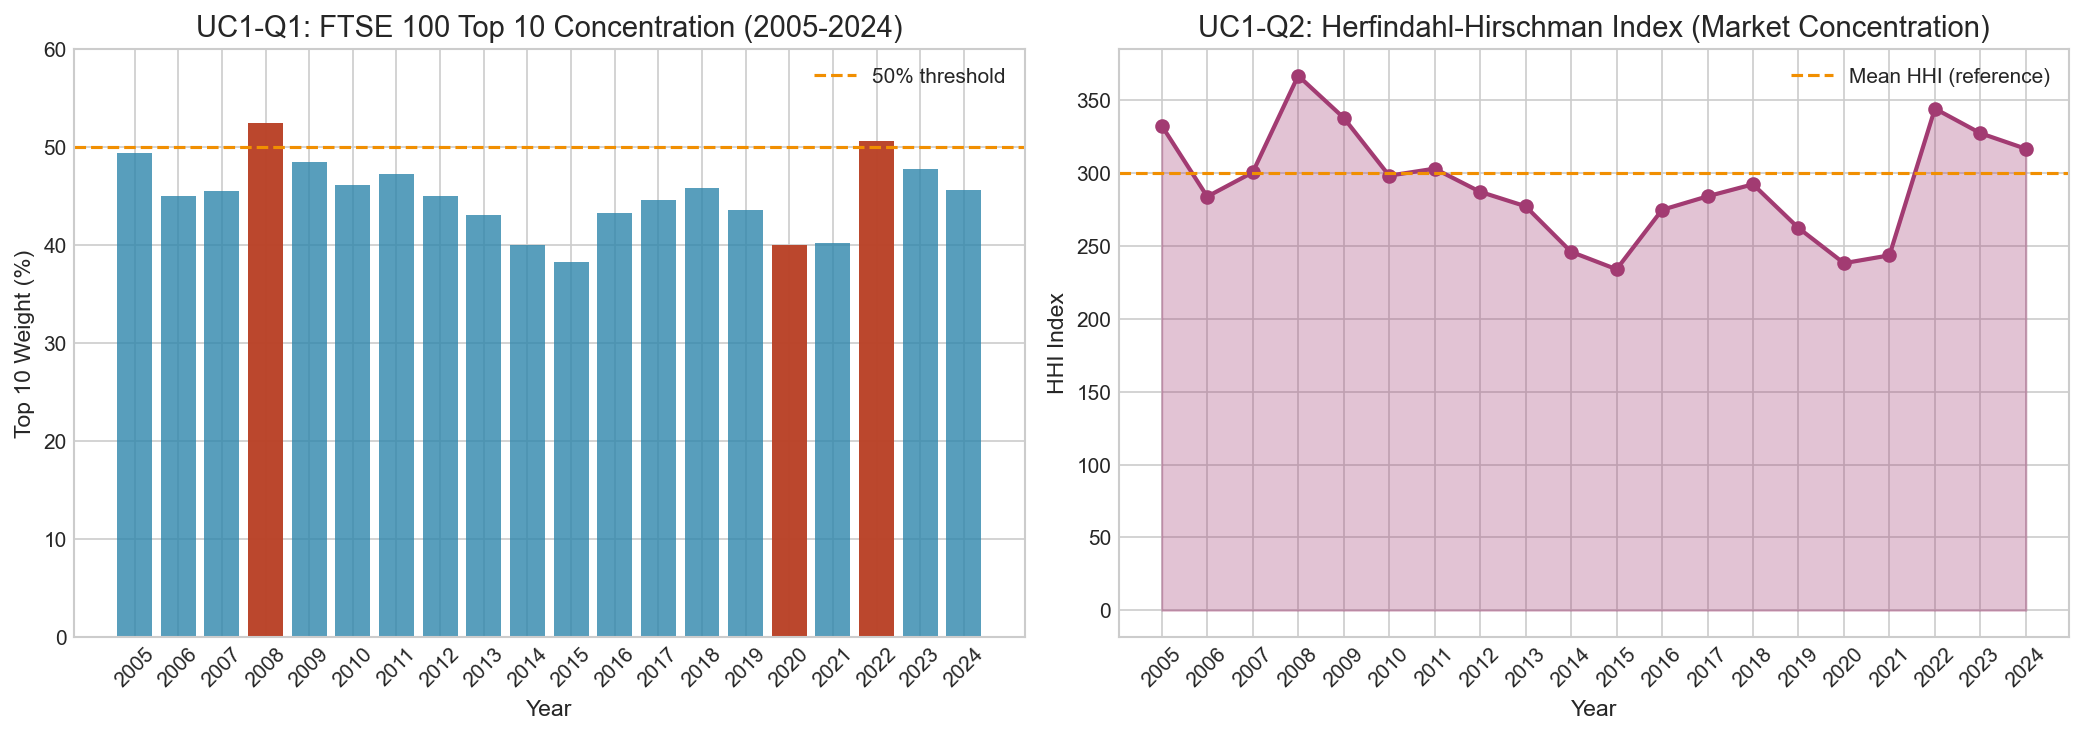
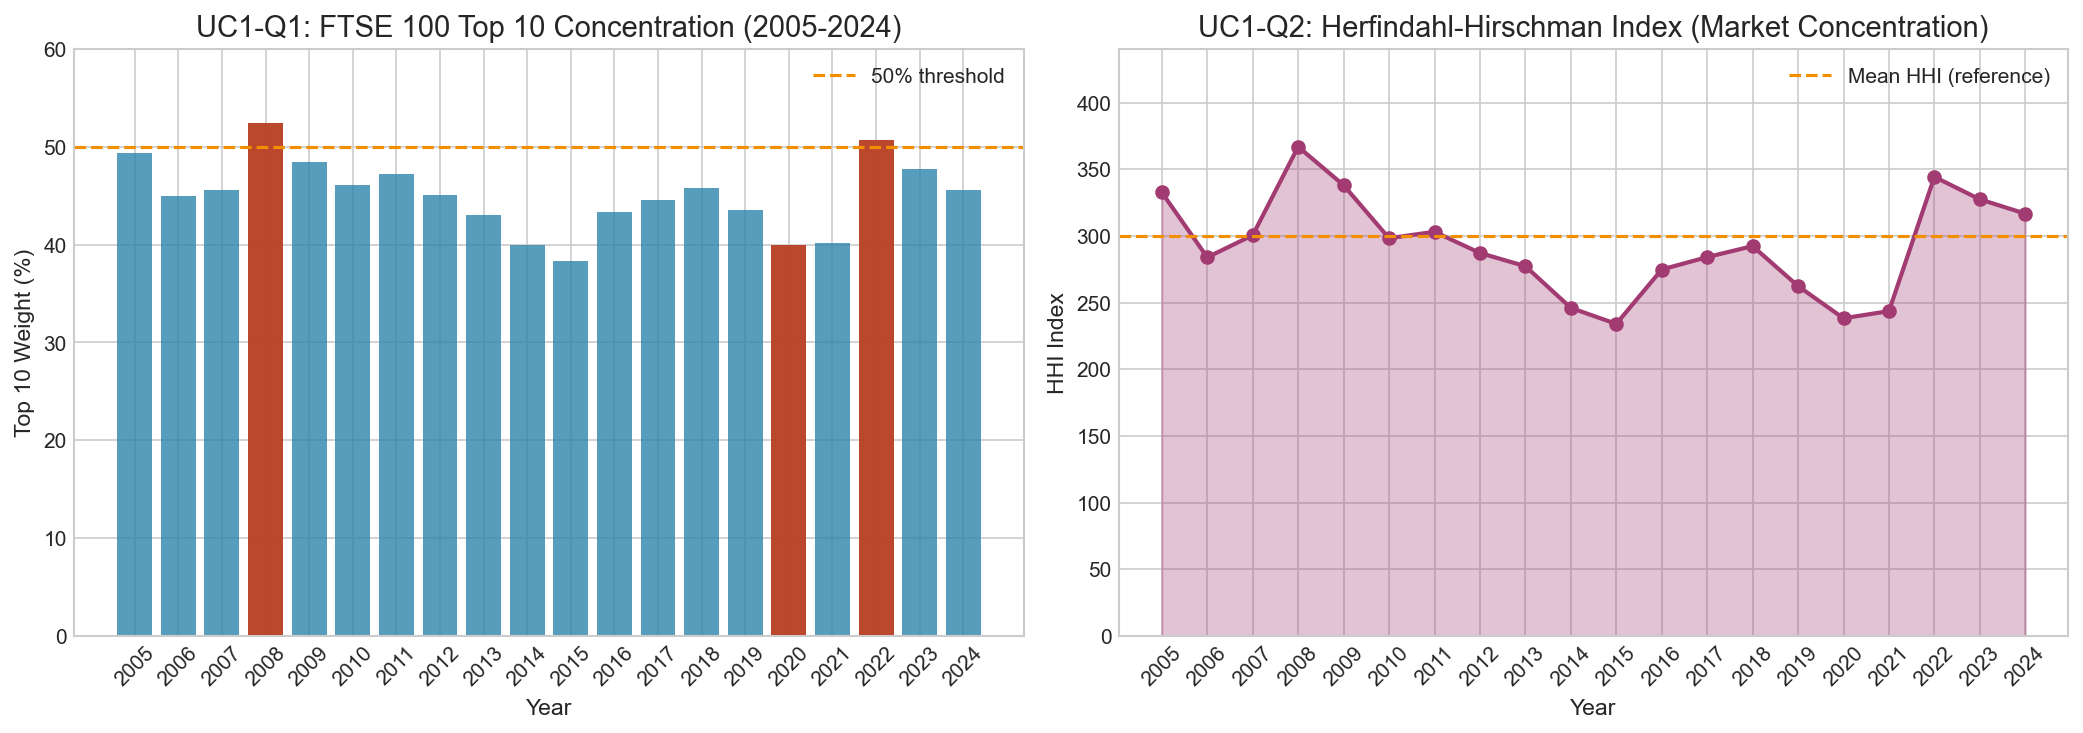
Update report: fix placeholders, update candidate numbers, improve visualizations
- Fix placeholders: correct 15-year to 20-year horizon, fix typo 'establish' to 'established'
- Add missing query titles (Query 2.3, 3.2, 3.3)
- Update candidate numbers to 66469, 66503, 73702
- Fix all chart Y-axes to start from 0 where appropriate
- Add UC5-Q3 rate sensitivity chart to report
- Remove all figure captions as requested
- Increase image sizes to 0.9\textwidth for better visibility
- Regenerate all visualization images with corrected axes

diff --git a/visualizations.py b/visualizations.py
@@ -90,6 +90,7 @@ def plot_uc1_concentration():
     ax2.set_xlabel('Year')
     ax2.set_ylabel('HHI Index')
     ax2.set_title('UC1-Q2: Herfindahl-Hirschman Index (Market Concentration)')
+    ax2.set_ylim(0, df2['hhi'].max() * 1.2)
     ax2.legend()
     ax2.tick_params(axis='x', rotation=45)
     
@@ -259,6 +260,7 @@ def plot_uc4_volatility():
     ax.set_xlabel('Average Revenue Volatility (%)')
     ax.set_ylabel('GICS Sector')
     ax.set_title('UC4-Q2: Revenue Volatility by Sector (Cyclicality Proxy)')
+    ax.set_xlim(0, max(100, df['avg_vol'].max() * 1.1))
     ax.legend(loc='lower right')
     
     # Add labels
@@ -364,16 +366,22 @@ def plot_uc5_rate_sensitivity():
     # Color: negative = rate sensitive (red), positive = rate beneficiary (green)
     colors = [COLORS['success'] if s < 0 else COLORS['highlight'] for s in df['sensitivity']]
     
-    bars = ax.barh(df['gics_sector_name'], df['sensitivity'] * 1000, color=colors, alpha=0.85)
+    sensitivity_scaled = df['sensitivity'] * 1000
+    bars = ax.barh(df['gics_sector_name'], sensitivity_scaled, color=colors, alpha=0.85)
     
     ax.axvline(x=0, color='black', linewidth=1)
     ax.set_xlabel('Rate Sensitivity (×1000)')
     ax.set_ylabel('GICS Sector')
     ax.set_title('UC5-Q3: Sector Rate Sensitivity (Correlation with 10Y Yield Changes)')
     
+    # Set xlim to include negative range, ensuring 0 is visible
+    x_min = min(sensitivity_scaled.min() * 1.2, -10)
+    x_max = max(sensitivity_scaled.max() * 1.2, 10)
+    ax.set_xlim(x_min, x_max)
+    
     # Add labels
-    ax.text(-10, -0.8, '← Rate Sensitive', fontsize=10, color=COLORS['success'], fontweight='bold')
-    ax.text(80, -0.8, 'Rate Beneficiary →', fontsize=10, color=COLORS['highlight'], fontweight='bold')
+    ax.text(x_min * 0.5, -0.8, '← Rate Sensitive', fontsize=10, color=COLORS['success'], fontweight='bold')
+    ax.text(x_max * 0.5, -0.8, 'Rate Beneficiary →', fontsize=10, color=COLORS['highlight'], fontweight='bold')
     
     plt.tight_layout()
     plt.savefig('viz_uc5_rate_sensitivity.png', dpi=150, bbox_inches='tight')
@@ -399,6 +407,7 @@ def create_summary_dashboard():
     ax.barh(list(stats.keys()), [v/1000 for v in stats.values()], color=COLORS['primary'])
     ax.set_xlabel('Records (thousands)')
     ax.set_title('Database Size')
+    ax.set_xlim(0, max(stats.values())/1000 * 1.2)
     for i, (k, v) in enumerate(stats.items()):
         ax.text(v/1000 + 5, i, f'{v:,}', va='center', fontsize=9)
     
@@ -420,6 +429,7 @@ def create_summary_dashboard():
     ax.set_xlabel('Year')
     ax.set_ylabel('Companies with Data')
     ax.set_title('Financial Data Coverage')
+    ax.set_ylim(0, df['companies'].max() * 1.1)
     ax.tick_params(axis='x', rotation=45)
     
     # 4. Top 10 Concentration Trend
@@ -437,6 +447,7 @@ def create_summary_dashboard():
     ax.plot(df['year'], df['top10'], marker='s', color=COLORS['primary'])
     ax.set_ylabel('Top 10 Weight (%)')
     ax.set_title('FTSE 100 Concentration')
+    ax.set_ylim(0, max(60, df['top10'].max() * 1.2))
     ax.tick_params(axis='x', rotation=45)
     
     # 5. Interest Rates
@@ -450,6 +461,7 @@ def create_summary_dashboard():
     ax.plot(df['year'], df['rate'], marker='o', color=COLORS['accent'], linewidth=2)
     ax.set_ylabel('10Y Yield (%)')
     ax.set_title('US 10-Year Treasury Yield')
+    ax.set_ylim(0, max(5, df['rate'].max() * 1.2))
     ax.tick_params(axis='x', rotation=45)
     
     # 6. Macro Coverage
